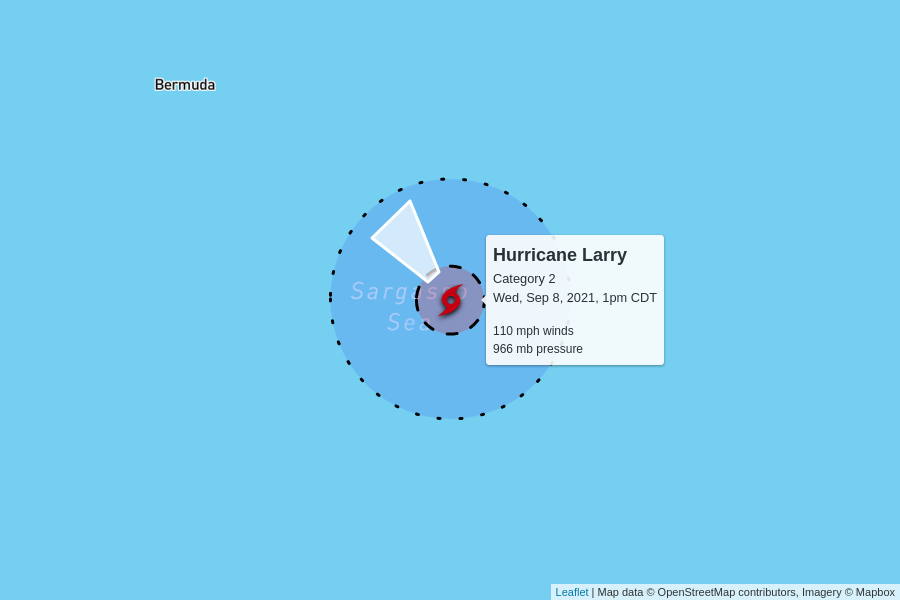
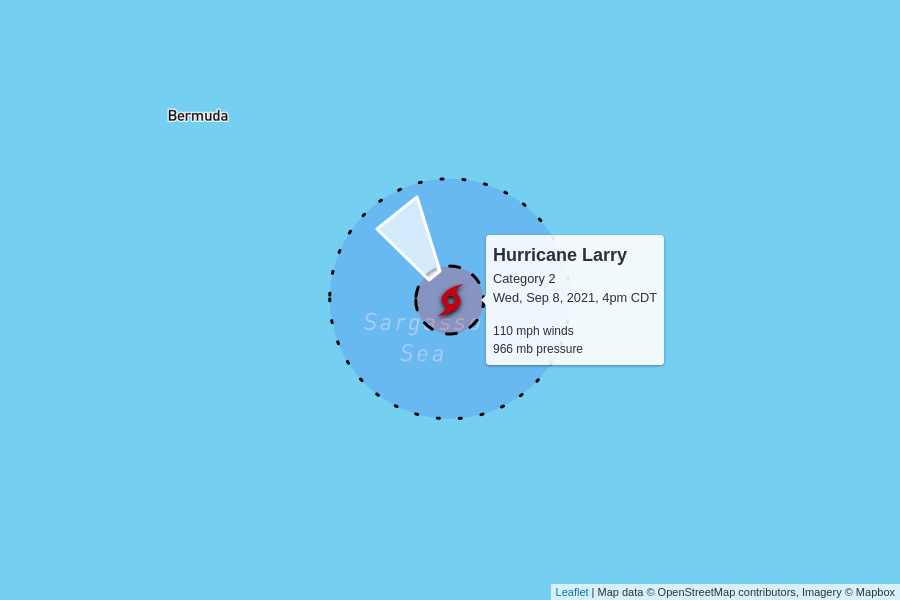
automatic update

diff --git a/docs/index.html b/docs/index.html
@@ -100,7 +100,7 @@
         <td colspan="6" class="storm category-2">
           <h2>
             Hurricane Larry - Category 2
-            <p class="updated">last updated <span data-time>2021-09-08T18:00:00.000Z</span></p>
+            <p class="updated">last updated <span data-time>2021-09-08T21:00:00.000Z</span></p>
           </h2>
         </td>
       </tr>
@@ -118,9 +118,9 @@
         <td>110 mph</td>
         <td>966 mb</td>
         <td>
-          13 mph to the northwest
+          15 mph to the northwest
           <br/>
-          <span style="display: inline-block; font-size: 1.5em; transform: rotate(320deg);">↑</span>
+          <span style="display: inline-block; font-size: 1.5em; transform: rotate(325deg);">↑</span>
         </td>
         <td><a href="https://raw.githubusercontent.com/mgwalker/atlantic-hurricanes/main/data/csv/AL122021.csv">AL122021.csv</a></td>
         <td><a href="https://www.nhc.noaa.gov/archive/2021/LARRY.shtml?">NHC advisories</a></td>
@@ -130,6 +130,50 @@
         <td colspan="5">
           <figure>
             <img src="AL122021.png">
+            <figcaption>
+              Map data &copy; <a href="https://www.openstreetmap.org/copyright">OpenStreetMap</a> contributors,
+              Imagery &copy; <a href="https://www.mapbox.com/">Mapbox</a> |
+              <a href="https://www.mapbox.com/map-feedback/" target="_blank">Improve this map</a>
+            </figcaption>
+          </figure>
+        </td>
+      </tr>
+      
+
+      <tr>
+        <td colspan="6" class="storm category-0">
+          <h2>
+            Tropical Storm Mindy
+            <p class="updated">last updated <span data-time>2021-09-08T21:00:00.000Z</span></p>
+          </h2>
+        </td>
+      </tr>
+      
+      <tr>
+        <th class="spacer"></th>
+        <th>wind speed</th>
+        <th>central pressure</th>
+        <th>movement</th>
+        <th>data (CSV)</th>
+        <th>National Hurricane Center</th>
+      </tr>
+      <tr>
+        <td class="spacer"></td>
+        <td>40 mph</td>
+        <td>1008 mb</td>
+        <td>
+          21 mph to the northeast
+          <br/>
+          <span style="display: inline-block; font-size: 1.5em; transform: rotate(50deg);">↑</span>
+        </td>
+        <td><a href="https://raw.githubusercontent.com/mgwalker/atlantic-hurricanes/main/data/csv/AL132021.csv">AL132021.csv</a></td>
+        <td><a href="https://www.nhc.noaa.gov/archive/2021/MINDY.shtml?">NHC advisories</a></td>
+      </tr>
+      <tr>
+        <td class="spacer">
+        <td colspan="5">
+          <figure>
+            <img src="AL132021.png">
             <figcaption>
               Map data &copy; <a href="https://www.openstreetmap.org/copyright">OpenStreetMap</a> contributors,
               Imagery &copy; <a href="https://www.mapbox.com/">Mapbox</a> |
